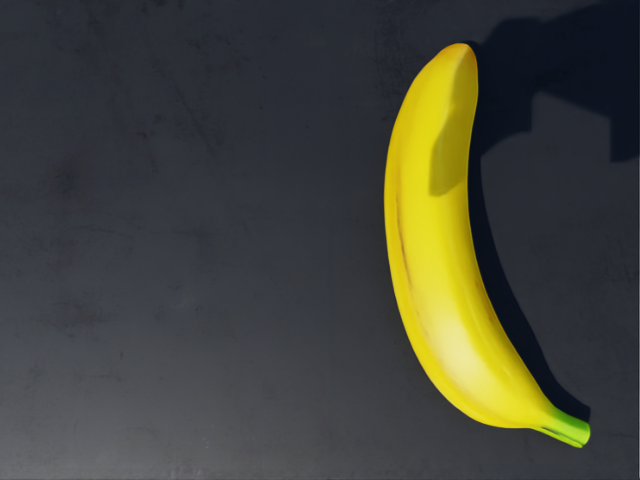
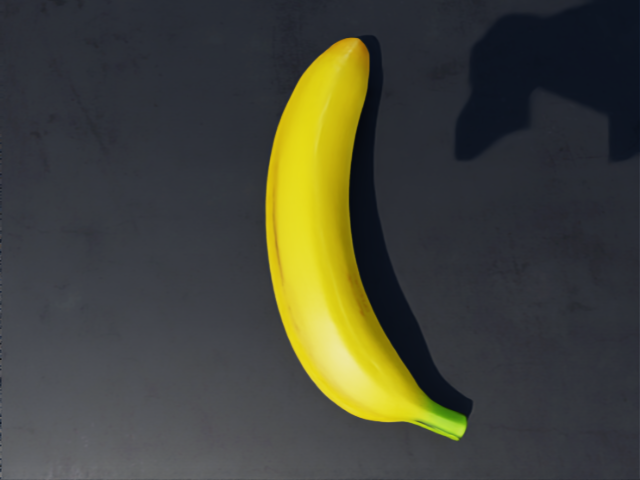
机器狗在抓取阶段会漂移，部分解决

Changed region(s): [[0.4062, 0.0625, 0.9375, 0.9375]]

diff --git a/custom_envs/scripts/navigation/navigate_to_goal.py b/custom_envs/scripts/navigation/navigate_to_goal.py
@@ -570,7 +570,7 @@ def main():
                 _arm_step(robot, q6)
                 _gripper_step(robot, close=False)
                 if state_step == 1:
-                    print("[SM] ARM_INIT: retracting arm...", flush=True)
+                    print(f"[SM] ARM_INIT: retracting arm... base_pos_w={np.round(pos_w,3)}", flush=True)
                     # Print banana actual resting position; sim ran during NAV
                     # so the banana has already settled on the table surface.
                     try:
@@ -585,15 +585,18 @@ def main():
                         print(f"[INFO] Could not read banana pos: {_be}", flush=True)
                 _arm_err_now = np.abs(cur_q - ARM_SIDE_ANGLES)
                 if state_step % 50 == 0:
+                    _ai_pos_w = robot.data.root_pos_w[0].cpu().numpy()
                     print(f"[SM] ARM_INIT step {state_step}/{BUDGET[PipelineState.ARM_INIT]}: "
-                          f"q={np.round(cur_q,4)} err={np.round(_arm_err_now,4)} max={_arm_err_now.max():.4f}",
+                          f"q={np.round(cur_q,4)} err={np.round(_arm_err_now,4)} max={_arm_err_now.max():.4f} "
+                          f"base_pos_w={np.round(_ai_pos_w,3)}",
                           flush=True)
                 _arm_converged = (_arm_err_now.max() < 0.02)   # ~1.1 deg threshold
                 _arm_timeout   = (state_step >= BUDGET[PipelineState.ARM_INIT])
                 if _arm_converged or _arm_timeout:
                     _arm_final_err = _arm_err_now
                     _reason = "converged" if _arm_converged else "timeout"
-                    print(f"[SM] ARM_INIT done ({_reason} at step {state_step}): final_q={np.round(cur_q,4)}", flush=True)
+                    _ai_done_pos_w = robot.data.root_pos_w[0].cpu().numpy()
+                    print(f"[SM] ARM_INIT done ({_reason} at step {state_step}): final_q={np.round(cur_q,4)} base_pos_w={np.round(_ai_done_pos_w,3)}", flush=True)
                     print(f"[SM] ARM_INIT target:        {np.round(ARM_SIDE_ANGLES,4)}", flush=True)
                     print(f"[SM] ARM_INIT joint_err:     {np.round(_arm_final_err,4)} max={_arm_final_err.max():.4f} rad ({np.degrees(_arm_final_err.max()):.1f}deg)",
                           flush=True)
@@ -608,8 +611,9 @@ def main():
                 try:
                     camera = raw_env.scene["wrist_camera"]
                     if state_step == 1:
+                        _scan_start_pos_w = robot.data.root_pos_w[0].cpu().numpy()
                         print(f"[SM] SCAN: warmup {SCAN_WARMUP} + accumulate "
-                              f"{SCAN_FRAMES} frames...", flush=True)
+                              f"{SCAN_FRAMES} frames... base_pos_w={np.round(_scan_start_pos_w,3)}", flush=True)
                     if state_step == SCAN_WARMUP + 1:
                         # ---- Save RGB snapshot after warmup (first valid frame) ----
                         try:
@@ -645,8 +649,9 @@ def main():
                     if state_step >= SCAN_WARMUP + SCAN_FRAMES:
                         depth_med = np.median(np.stack(depth_accum, axis=0), axis=0)
                         valid_pct = np.mean((depth_med > 0.05) & (depth_med < 4.0)) * 100
+                        _scan_done_pos_w = robot.data.root_pos_w[0].cpu().numpy()
                         print(f"[SM] SCAN done: {len(depth_accum)} frames, "
-                              f"valid depth {valid_pct:.1f}%", flush=True)
+                              f"valid depth {valid_pct:.1f}% base_pos_w={np.round(_scan_done_pos_w,3)}", flush=True)
                         # ---- DIAG: 相机外参验证 (修正版) ----
                         # 坐标系约定说明：
                         #   camera.data.pos_w      — 相机在「env-local」坐标系中的位置
@@ -803,6 +808,15 @@ def main():
                                 # all 6 joints arrive at the correct orientation.
                                 "R_desired_EE_in_arm": _R_desired,
                                 "q_scan": _q_scan_saved,
+                                # DRIFT FIX: save robot pose at SCAN time.
+                                # t_cam is measured in the camera frame at this exact
+                                # moment, so cam_to_world MUST use these values
+                                # (not the current drifted pos_w) to get the correct
+                                # world-frame target.  pos_w and quat_w are updated
+                                # at the top of every loop iteration, so they reflect
+                                # the robot pose at the time grasp_result is built.
+                                "pos_w_scan":  pos_w.copy(),
+                                "quat_w_scan": quat_w.copy(),
                             }
                             print(f"[SM] Best grasp score={grasp_result['score']:.3f} "
                                   f"t={np.round(grasp_result['t_cam'],3)}", flush=True)
@@ -930,7 +944,15 @@ def main():
                     # cur_q (current joints at PRE_GRASP step=1, arm already moving).
                     # t_cam is in the camera frame at SCAN time, so cam_to_world must
                     # use the joint angles at that moment to get the correct camera pose.
-                    t_world = cam_to_world(pre_t_cam, grasp_result["q_scan"], pos_w, quat_w)
+                    # DRIFT FIX: use pos_w_scan/quat_w_scan (robot pose at SCAN time) instead of
+                    # the current pos_w (which may already be drifted from PRE_GRASP start).
+                    # t_cam was measured in camera frame at SCAN time, so cam_to_world must
+                    # use the robot pose at that same moment to get the correct world target.
+                    t_world = cam_to_world(pre_t_cam, grasp_result["q_scan"],
+                                           grasp_result["pos_w_scan"], grasp_result["quat_w_scan"])
+                    # DRIFT FIX: save fixed world-frame target so every step can re-project
+                    # it into the current robot frame, compensating for body drift during PRE_GRASP.
+                    _pg_t_world_fixed = t_world.copy()
                     pre_t = world_pos_to_arm_frame(t_world, pos_w, quat_w)
                     # Include the desired EE orientation (computed at SCAN time)
                     # so that PRE_GRASP IK solves for all 6 joints simultaneously.
@@ -991,46 +1013,55 @@ def main():
                 cur_q = robot.data.joint_pos[
                     0, list(_get_arm_ids(robot)[0])
                 ].cpu().numpy()
-                # Feed-forward path interpolation for PRE_GRASP:
-                # Linearly interpolate from the initial joint angles (recorded at step=1)
-                # to the IK target.  Unlike the overdrive-alpha approach (which reads cur_q
-                # each step and scales toward target), this open-loop schedule guarantees
-                # the commanded angle advances monotonically regardless of whether the PD
-                # controller has actually reached the previous command.
-                # The previous velocity-clamp fix caused a dead-lock: when j5 was stuck,
-                # cur_q stayed at 1.22, so clip(alpha*(target-cur_q), -0.05, 0.05) kept
-                # the command near 1.17 forever and the joint never moved.
-                _pg_budget  = BUDGET[PipelineState.PRE_GRASP]
-                _pg_progress = min(1.0, state_step / _pg_budget)
-                # Feed-forward command: linearly interpolate from q_init to target.
-                # Overdrive: in the last 15% of the budget, push 0.05 rad past target
-                # (toward the target direction) to overcome gravity/friction.
-                # Overdrive is added as a flat offset so it doesn't scale with path length.
-                _pg_od_offset = 0.05 * max(0.0, (_pg_progress - 0.85) / 0.15) * np.sign(target_angles_arm - _pg_q_init)
-                q6 = _pg_q_init + _pg_progress * (target_angles_arm - _pg_q_init) + _pg_od_offset
+                # Rolling tracking for PRE_GRASP:
+                # Each step command = cur_q + α*(target - cur_q), where α controls
+                # how fast joints move toward the IK target.  Unlike the fixed q_init
+                # feed-forward interpolation (which caused oscillation when IK target
+                # updated mid-way), this approach always starts from the actual current
+                # joint position, so IK target updates are absorbed smoothly.
+                _PRE_GRASP_ALPHA = 0.08  # fraction of remaining error to close per step
+                # DRIFT FIX: re-project the fixed world-frame target into the current
+                # robot arm frame every 5 steps, then re-solve IK.  This compensates
+                # for body drift while keeping IK overhead low.
+                if state_step % 5 == 1:  # fires on step=1,6,11,... (also first step)
+                    _cur_pos_w  = robot.data.root_pos_w[0].cpu().numpy()
+                    _cur_quat_w = robot.data.root_quat_w[0].cpu().numpy()
+                    _pg_pre_t_cur = world_pos_to_arm_frame(_pg_t_world_fixed, _cur_pos_w, _cur_quat_w)
+                    _pg_target_cur = ik_solve_gb(
+                        _pg_pre_t_cur,
+                        target_rot_j7=R_desired_EE,
+                        initial_angles=cur_q,
+                    )
+                # Rolling tracking command: move α fraction toward current IK target
+                q6 = cur_q + _PRE_GRASP_ALPHA * (_pg_target_cur - cur_q)
                 q6 = np.clip(q6, [lo for lo, hi in _IK_JOINT_LIMITS],
                                   [hi for lo, hi in _IK_JOINT_LIMITS])
                 _arm_step(robot, q6)
                 _gripper_width_step(robot, grasp_result["width"])
                 if state_step % 50 == 0:
-                    _err = np.abs(cur_q - target_angles_arm)
+                    _err = np.abs(cur_q - _pg_target_cur)
+                    _pg_step_pos_w = robot.data.root_pos_w[0].cpu().numpy()
                     print(f"[SM] PRE_GRASP step {state_step}/{BUDGET[PipelineState.PRE_GRASP]}: "
-                          f"max_err={_err.max():.3f}", flush=True)
-                # Early-exit: once all joints are within 0.05 rad of IK target
+                          f"max_err={_err.max():.3f} base_pos_w={np.round(_pg_step_pos_w,3)}", flush=True)
+                # Early-exit: once all joints are within 0.05 rad of live IK target
                 # AND at least 100 steps have passed (give time to settle), skip
                 # waiting the full budget and move directly to REACH.
                 _pg_cur_q_check = robot.data.joint_pos[
                     0, list(_get_arm_ids(robot)[0])].cpu().numpy()
-                _pg_err_check = np.abs(_pg_cur_q_check - target_angles_arm)
+                _pg_err_check = np.abs(_pg_cur_q_check - _pg_target_cur)
                 _pg_early_exit = (state_step > 100 and _pg_err_check.max() < 0.05)
                 if _pg_early_exit and state_step % 50 != 0:  # avoid double-print
+                    _pg_exit_pos_w = robot.data.root_pos_w[0].cpu().numpy()
                     print(f"[SM] PRE_GRASP early-exit at step {state_step}: "
-                          f"max_err={_pg_err_check.max():.4f} rad < 0.05 -> REACH",
+                          f"max_err={_pg_err_check.max():.4f} rad < 0.05 -> REACH "
+                          f"base_pos_w={np.round(_pg_exit_pos_w,3)}",
                           flush=True)
                 if state_step >= BUDGET[PipelineState.PRE_GRASP] or _pg_early_exit:
                     cur_q_final = robot.data.joint_pos[
                         0, list(_get_arm_ids(robot)[0])].cpu().numpy()
-                    print(f"[SM] PRE_GRASP done: final={np.round(cur_q_final,3)} -> REACH (ORIENT skipped)",
+                    _pg_done_pos_w = robot.data.root_pos_w[0].cpu().numpy()
+                    print(f"[SM] PRE_GRASP done: final={np.round(cur_q_final,3)} -> REACH (ORIENT skipped) "
+                          f"base_pos_w={np.round(_pg_done_pos_w,3)}",
                           flush=True)
                     # ---- DIAG: actual EE position after PRE_GRASP ----
                     from arm_ik import fk as _fk_pgd, fk_gripper as _fkg_pgd, quat_to_rot as _q2r_pgd, cam_to_world as _c2w_pgd
@@ -1148,7 +1179,14 @@ def main():
                     # cur_q (current joints at REACH step=1, arm already at PRE_GRASP position).
                     # t_cam is in the camera frame at SCAN time, so cam_to_world must
                     # use the joint angles at that moment to get the correct camera pose.
-                    t_world = cam_to_world(reach_t_cam, grasp_result["q_scan"], pos_w, quat_w)
+                    # DRIFT FIX: use pos_w_scan/quat_w_scan (robot pose at SCAN time) instead of
+                    # the current pos_w (which is drifted after PRE_GRASP 800 steps).
+                    # t_cam was measured in camera frame at SCAN time, so cam_to_world must
+                    # use the robot pose at that same moment to get the correct world target.
+                    t_world = cam_to_world(reach_t_cam, grasp_result["q_scan"],
+                                           grasp_result["pos_w_scan"], grasp_result["quat_w_scan"])
+                    # DRIFT FIX: save fixed world-frame target for per-step re-projection
+                    _re_t_world_fixed = t_world.copy()
                     t_arm = world_pos_to_arm_frame(t_world, pos_w, quat_w)
                     # Keep orientation established by PRE_GRASP (which now includes target_rot).
                     # Use the stored R_desired_EE_in_arm (from SCAN time) as the orientation
@@ -1188,21 +1226,32 @@ def main():
                 cur_q = robot.data.joint_pos[
                     0, list(_get_arm_ids(robot)[0])
                 ].cpu().numpy()
-                # Feed-forward path interpolation for REACH (same logic as PRE_GRASP)
-                _reach_budget  = BUDGET[PipelineState.REACH]
-                _re_progress   = min(1.0, state_step / _reach_budget)
-                _re_od_offset = 0.05 * max(0.0, (_re_progress - 0.85) / 0.15) * np.sign(target_angles_arm - _re_q_init)
-                q6 = _re_q_init + _re_progress * (target_angles_arm - _re_q_init) + _re_od_offset
+                # Rolling tracking for REACH (same logic as PRE_GRASP):
+                # Each step command = cur_q + α*(target - cur_q).
+                _REACH_ALPHA = 0.08
+                # DRIFT FIX: re-project the fixed world-frame target into the current
+                # robot arm frame every 5 steps, then re-solve IK.
+                if state_step % 5 == 1:  # fires on step=1,6,11,...
+                    _re_cur_pos_w  = robot.data.root_pos_w[0].cpu().numpy()
+                    _re_cur_quat_w = robot.data.root_quat_w[0].cpu().numpy()
+                    _re_t_cur = world_pos_to_arm_frame(_re_t_world_fixed, _re_cur_pos_w, _re_cur_quat_w)
+                    _re_target_cur = ik_solve_gb_re(
+                        _re_t_cur,
+                        target_rot_j7=R_arm,
+                        initial_angles=cur_q,
+                    )
+                # Rolling tracking command: move α fraction toward current IK target
+                q6 = cur_q + _REACH_ALPHA * (_re_target_cur - cur_q)
                 q6 = np.clip(q6, [lo for lo, hi in _IK_JOINT_LIMITS],
                                   [hi for lo, hi in _IK_JOINT_LIMITS])
                 _arm_step(robot, q6)
                 _gripper_width_step(robot, grasp_result["width"])
                 if state_step % 50 == 0:
-                    _err = np.abs(cur_q - target_angles_arm)
+                    _err = np.abs(cur_q - _re_target_cur)
                     print(f"[SM] REACH step {state_step}/{BUDGET[PipelineState.REACH]}: "
                           f"max_err={_err.max():.3f}", flush=True)
                 # Early-exit: joints converged within 0.05 rad
-                _reach_err_check = np.abs(cur_q - target_angles_arm)
+                _reach_err_check = np.abs(cur_q - _re_target_cur)
                 _reach_early = (state_step > 50 and _reach_err_check.max() < 0.05)
                 if _reach_early and state_step % 50 != 0:
                     print(f"[SM] REACH early-exit at step {state_step}: "
